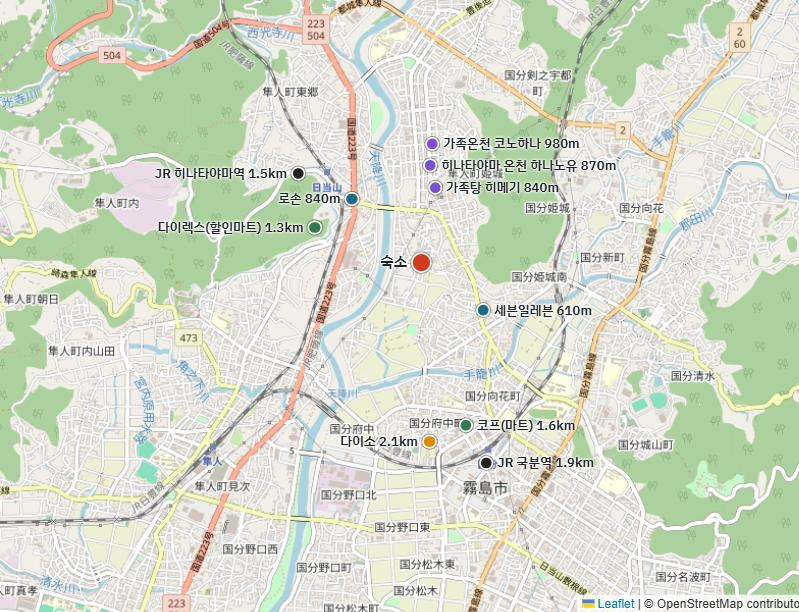
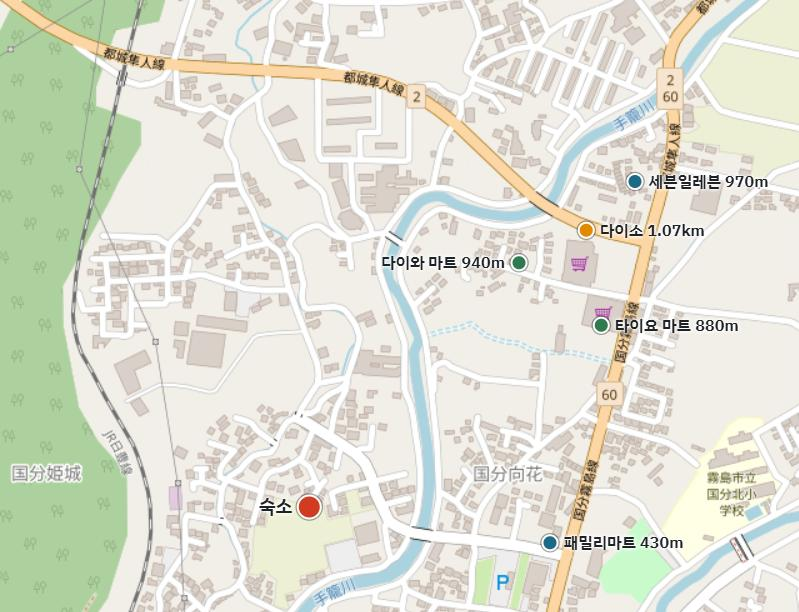
첫날 숙소를 이전 숙소(온천 독채) 기준으로 되돌림 (새 집 버전은 sachikaze 브랜치에 보관)

diff --git a/index.html b/index.html
@@ -155,7 +155,7 @@ ul.poi a{font-weight:600;text-decoration:none;color:var(--ink);min-width:0}
 ul.poi .d{font-size:13px;color:var(--muted);text-align:right}
 ul.poi .w{grid-column:3 / 5;font-size:12.5px;color:var(--muted)}
 ul.poi .w:empty{display:none}
-.k-home i{background:#d13b1f}.k-mart i{background:#2f7a4f}.k-daiso i{background:#e08a00}.k-conv i{background:#1b6a86}.k-station i{background:var(--ink)}.k-bus i{background:#7a4fd1}.k-bath i{background:#7a4fd1}
+.k-home i{background:#d13b1f}.k-mart i{background:#2f7a4f}.k-daiso i{background:#e08a00}.k-conv i{background:#1b6a86}.k-station i{background:var(--ink)}.k-bus i{background:#7a4fd1}
 .k-home a{color:var(--lava)}
 .meal{display:grid;gap:6px}
 dl.menu{display:grid;grid-template-columns:auto 1fr;gap:2px 8px;margin:4px 0 0;font-size:13px}
@@ -224,22 +224,53 @@ footer{padding-top:40px;font-size:13px;color:var(--muted);display:grid;gap:6px}
       <li><span class="t">12:00</span><div class="d">인천공항 제2터미널 도착<p>14:40 출발 기준 2시간 40분 전. 8명 체크인·짐 부치기·보안검색에 토요일 혼잡까지 감안. 점심은 공항에서 먹고, 기내용 간식·물티슈 챙기기.</p></div></li>
       <li><span class="t">16:20</span><div class="d">가고시마 공항 도착 → 입국심사·짐 찾기<p>Visit Japan Web QR 미리 등록해두면 빨라집니다.</p></div></li>
       <li><span class="t">17:00</span><div class="d">렌터카 영업소 셔틀 → 차량 수령<p>8명 + 캐리어는 8인승 한 대에 다 안 실릴 수 있습니다(아래 주의사항). 주니어시트 장착 확인, ETC 카드 대여 여부 결정.</p></div></li>
-      <li><span class="t">17:45</span><div class="d">고쿠부로 이동 (공항에서 차로 약 25분) → 체크인·짐 풀기<p>체크인 15:00~21:00. 도착 예정 시간을 숙소에 미리 알려 두세요. 숙소 안 전용 주차장에 주차.</p></div></li>
+      <li><span class="t">17:45</span><div class="d">고쿠부로 이동 (공항에서 차로 약 15분) → 체크인·짐 풀기<p>체크인 15:00부터, 비대면 체크인. 입실 방법은 호스트가 이메일로 보내주니 출발 전 확인하세요.</p></div></li>
       <li><span class="t">18:30</span><div class="d">저녁</div></li>
-      <li><span class="t">19:45</span><div class="d">아침거리 · 간식 사기<p>가장 가까운 편의점은 세븐일레븐(걸어서 약 8분). 마트·다이소는 1km 밖이라 저녁 먹고 오는 길에 차로 들르세요(다이렉스 할인마트·코프·다이소, 차로 3~5분). 아래 '위치정보' 지도 참고.</p></div></li>
-      <li><span class="t">20:30</span><div class="d">근처 가족탕 (선택) · 휴식<p>숙소에서 걸어서 11~13분 거리에 가족탕이 여러 곳. 대부분 시간제(40~60분)로 빌리고 늦게까지 영업하는 곳이 많지만, 영업시간·요금은 체크인 때 숙소에 확인. 정숙 시간(20:00~) 때문에 숙소에선 조용히.</p></div></li>
+      <li><span class="t">19:45</span><div class="d">아침거리 · 간식 사기<p>패밀리마트는 걸어서 약 6분(430m), 타이요 마트·다이소는 걸어서 12~14분. 아이들이 피곤하면 차로 가세요. 아래 '위치정보' 지도 참고.</p></div></li>
+      <li><span class="t">20:30</span><div class="d">숙소 전용 천연온천 · 휴식</div></li>
     </ol>
     <div class="note tip"><b>고쿠부 숙소 (1박)</b>
       <ul class="plain">
-        <li><b>집 구조</b>: 단독주택 통째로 사용, 침실 4개 · 욕실 1개, 약 110㎡. 넓은 거실(대형 TV), 주방(냉장고·전자레인지·전기주전자), 툇마루(엔가와)·정원, 발코니, 와이파이.</li>
-        <li><b>잠자리 (8명 충분)</b>: 양실 더블침대 2 + 양실 더블침대 1 + 다다미방 더블 이불 2세트 + 거실 싱글 이불 2세트. 이불은 예약 인원에 맞춰 깔아 주니 8명으로 예약됐는지 확인.</li>
-        <li><b>주차</b>: 구내 전용 무료 주차(실내 주차장). 몇 대까지인지는 안 나와 있어 차가 2대면 숙소에 확인.</li>
-        <li><b>욕실</b>: 온천이 아니라 일반 욕조(예전엔 온천물이었지만 지금은 수돗물을 데워 씀). 후기에서 욕실이 깨끗하다는 평.</li>
-        <li><b>온천은 근처 가족탕으로</b>: 걸어서 11~13분(840~980m) 거리에 가족탕(가족끼리 빌리는 온천)이 여러 곳 있습니다. 숙소 제휴 온천도 있다니 체크인 때 물어보세요. 남탕·여탕 나눌 필요 없이 아이들과 다 같이 들어갈 수 있어요.</li>
-        <li><b>체크인·아웃</b>: 체크인 15:00~21:00(도착 시간 미리 연락), 체크아웃 10:00까지.</li>
-        <li><b>규칙</b>: 정숙 시간 20:00~07:00(아이들 소리 주의), 금연, 파손 시 최대 1만 5천 엔 청구.</li>
+        <li><b>전용 천연온천</b>: 하루 한 팀만 받는 온천 딸린 독채라, 원천을 그대로 흘려보내는 온천을 우리 가족끼리 씁니다. 남탕·여탕을 나눌 필요 없이 아이들과 다 같이 들어가면 됩니다.</li>
+        <li><b>집 구조</b>: 독채 전체 사용, 침실 2개 · 침대 6개 · 욕실 1개, 약 80㎡. 구조도상 침대는 A방 2·B방 2라 8명이면 이불 추가 여부 확인. 온천은 옆 별채. 주방(냉장고·전기주전자), 발코니, 와이파이, 무료 주차.</li>
+        <li><b>체크인·아웃</b>: 체크인 15:00부터(비대면), 체크아웃 10:00(예약 안내 기준. 사이트에 따라 11:00로도 나오니 확인).</li>
+        <li><b>주변</b>: 편의점·드럭스토어·슈퍼가 걸어갈 거리. 국분역에서 차로 약 10분.</li>
+        <li><b>온천 매너</b>: 들어가기 전 몸 씻기, 수건은 탕에 넣지 않기, 뜨거우면 아이들은 짧게. 물 자주 마시기.</li>
       </ul>
-      <span class="small muted">출처: 예약 사이트 숙소 소개·후기(2026-10-25 확인)</span>
+      <figure class="plan">
+        <div class="scroll">
+        <svg viewBox="0 0 640 330" role="img" aria-label="고쿠부 숙소 구조도. 본채에 샤워룸, 세면·세탁실, 화장실, 현관, A방(침대 2), B방(침대 2), 거실과 주방, 앞쪽 데크. 옆 별채에 탈의실과 온천 욕실">
+          <g class="fl">
+            <text x="10" y="18" class="ttl">본채</text>
+            <rect x="10" y="28" width="480" height="250" class="wall"/>
+            <rect x="10" y="28" width="40" height="70" class="wet"/><text x="30" y="66" class="lb sm">샤워</text>
+            <rect x="50" y="28" width="105" height="70" class="wet"/><text x="102" y="66" class="lb sm">세면·세탁</text>
+            <rect x="155" y="28" width="40" height="70" class="wet"/><text x="175" y="66" class="lb sm">화장실</text>
+            <rect x="10" y="98" width="70" height="80" class="park"/><text x="45" y="142" class="lb">현관</text>
+            <rect x="80" y="98" width="115" height="80" class="room"/><text x="137" y="142" class="lb sm">복도</text>
+            <rect x="195" y="28" width="130" height="150" class="room"/><text x="260" y="168" class="lb">A방</text>
+            <rect x="205" y="40" width="48" height="95" class="bed"/><text x="229" y="92" class="lb sm">침대</text>
+            <rect x="267" y="40" width="48" height="95" class="bed"/><text x="291" y="92" class="lb sm">침대</text>
+            <rect x="325" y="28" width="165" height="150" class="room"/><text x="365" y="70" class="lb">B방</text>
+            <rect x="372" y="80" width="48" height="90" class="bed"/><text x="396" y="129" class="lb sm">침대</text>
+            <rect x="432" y="80" width="48" height="90" class="bed"/><text x="456" y="129" class="lb sm">침대</text>
+            <rect x="10" y="178" width="480" height="100" class="room"/><text x="210" y="232" class="lb">거실</text>
+            <rect x="380" y="190" width="40" height="78" class="nook"/><text x="400" y="233" class="lb sm">아일랜드</text>
+            <rect x="440" y="186" width="44" height="86" class="wet"/><text x="462" y="233" class="lb sm">주방</text>
+            <rect x="60" y="282" width="380" height="40" class="stair"/><text x="250" y="307" class="lb sm">야외 데크</text>
+          </g>
+          <g class="fl" transform="translate(520 0)">
+            <text x="0" y="18" class="ttl">별채 (온천)</text>
+            <rect x="0" y="80" width="110" height="200" class="wall"/>
+            <rect x="0" y="80" width="110" height="80" class="room"/><text x="55" y="124" class="lb">탈의실</text>
+            <rect x="0" y="160" width="110" height="120" class="tatami"/><text x="55" y="210" class="lb">온천 욕실</text>
+            <rect x="15" y="230" width="80" height="38" class="wet"/><text x="55" y="253" class="lb sm">욕조</text>
+          </g>
+        </svg>
+        </div>
+        <figcaption>휴대폰에서는 그림을 옆으로 밀어서 보세요. 받은 구조도 이미지를 보고 간단히 다시 그린 그림이라 실제와 다를 수 있어요. 구조도에 보이는 침대는 4개(A방 2, B방 2)라, 8명이면 이불·소파베드가 몇 개인지 숙소에 꼭 확인하세요. 온천은 본채 옆 별채에 있어 밖으로 나가서 들어갑니다. <a href="https://www.agoda.com/ko-kr/hanaresou-1-h48040943/hotel/kirishima-jp.html" target="_blank" rel="noopener">예약 사이트에서 원본 구조도·사진 보기</a></figcaption>
+      </figure>
+      <span class="small muted">출처: 예약 사이트 숙소 소개·구조도(2026-10-24 확인)</span>
     </div>
   </article>
 
@@ -376,7 +407,7 @@ footer{padding-top:40px;font-size:13px;color:var(--muted);display:grid;gap:6px}
 
 <!-- 위치정보 -->
 <section id="where">
-  <div class="sec-head"><h2>위치정보</h2><span class="muted small">숙소에서 걸어서 갈 수 있는 1km 안쪽 위주로 모았고, 1km 밖은 "차로"라고 따로 적었습니다. 거리는 직선이 아니라 <b>실제로 걷는 길</b> 기준이고, 시간은 1분에 약 75m로 잡았어요(아이 동반·캐리어면 더 걸림). 이름을 누르면 구글 지도로 열립니다. 고쿠부 숙소는 마트·다이소·역이 모두 1km 밖이라 차로 다녀오세요.</span></div>
+  <div class="sec-head"><h2>위치정보</h2><span class="muted small">숙소에서 걸어서 갈 수 있는 1km 안팎만 모았습니다. 거리는 직선이 아니라 <b>실제로 걷는 길</b> 기준이고, 시간은 1분에 약 75m로 잡았어요(아이 동반·캐리어면 더 걸림). 이름을 누르면 구글 지도로 열립니다. 고쿠부 숙소에서 가장 가까운 역(JR 국분역)은 2.1km라 걸어가기엔 멀어 뺐습니다.</span></div>
   <div class="where" id="whereList"></div>
   <p class="small muted">지도·가게 위치: © OpenStreetMap contributors (2026-10-23 조회). 영업시간·폐업 여부는 방문 전 지도 앱에서 확인하세요.</p>
 </section>
@@ -441,7 +472,7 @@ footer{padding-top:40px;font-size:13px;color:var(--muted);display:grid;gap:6px}
       <li><b>8명이 된 뒤 꼭 확인</b>:
         <ul class="plain">
           <li><b>렌터카</b>: 8인승 미니밴은 8명이 다 앉으면 트렁크가 거의 없어 캐리어가 안 들어갈 수 있습니다. 렌터카 회사에 "8명 + 캐리어 ○개"로 차종을 다시 확인하고, 안 되면 10인승(하이에이스 등)이나 차 2대로 바꾸세요. 2대면 운전자 2명, 페리 차량 요금·기름값도 2배.</li>
-          <li><b>숙소 정원</b>: 첫날 숙소는 더블침대 3 + 이불 4세트라 8명 충분(예약 인원대로 이불을 깔아 줌). 차가 2대면 주차 가능 대수 확인. 중앙역 숙소는 최대 8명이지만 침대 5개라 같이 자는 조합을 미리 정하세요.</li>
+          <li><b>숙소 정원</b>: 첫날 숙소는 사이트엔 침대 6개로 나오지만 구조도엔 침대 4개만 보여요. 8명이 잘 이불·소파베드가 있는지 숙소에 꼭 확인. 중앙역 숙소는 최대 8명이지만 침대 5개라 같이 자는 조합을 미리 정하세요.</li>
           <li><b>예약 인원</b>: 숙소·렌터카 예약 인원을 8명으로 바꿨는지 확인(인원 추가 요금이 붙을 수 있음).</li>
         </ul>
       </li>
@@ -610,9 +641,9 @@ footer{padding-top:40px;font-size:13px;color:var(--muted);display:grid;gap:6px}
   var eat=[
     ['기리시마·고쿠부 (10/31~11/1)',[
       ['저녁',[
-        ['スシロー (스시로)','スシロー 隼人','숙소에서 차로 약 10분(이온 하야토 상권). 터치패널 주문이라 말이 안 통해도 OK. 토요일이라 앱 대기 등록 추천.','아이 OK','연어·참치 초밥, 감자튀김, 푸딩','1인 1,000~2,000엔',false],
+        ['スシロー (스시로)','スシロー 隼人','숙소에서 차로 10분 안팎(이온 하야토 상권). 터치패널 주문이라 말이 안 통해도 OK. 토요일이라 앱 대기 등록 추천.','아이 OK','연어·참치 초밥, 감자튀김, 푸딩','1인 1,000~2,000엔',false],
         ['くら寿司 (쿠라스시)','くら寿司 国分隼人','스시로 바로 옆. 접시 5개 넣으면 뽑기(비쿠라퐁).','아이 OK','초밥 + 뽑기용 접시 모으기, 우동','1인 1,000~2,000엔',false],
-        ['ジョイフル (조이풀)','ジョイフル 国分','숙소에서 차로 약 5분. 규슈 패밀리레스토랑 체인. 드링크바, 늦게까지 영업.','늦게까지 영업','함박스테이크, 키즈 플레이트','1인 700~1,500엔',false],
+        ['ジョイフル (조이풀)','ジョイフル 国分','규슈 패밀리레스토랑 체인. 드링크바, 늦게까지 영업.','늦게까지 영업','함박스테이크, 키즈 플레이트','1인 700~1,500엔',false],
         ['すまいる (스마일)','霧島市 すまいる 和食','공항에서 차로 약 10분. 좌식·의자석 70석 규모.','흑돼지','흑돼지 철판구이 정식(黒豚焼肉膳)','1인 1,500~2,500엔',false]
       ]],
       ['점심',[
@@ -685,20 +716,15 @@ footer{padding-top:40px;font-size:13px;color:var(--muted);display:grid;gap:6px}
   })();
 
   // 위치정보: [숙소명, 기간, 지도 이미지, [[종류, 이름, 거리(m), 위도, 경도, 메모]...]]
-  var KIND={home:'숙소',mart:'마트',daiso:'생활용품',conv:'편의점',station:'역',bus:'버스',bath:'온천'};
+  var KIND={home:'숙소',mart:'마트',daiso:'생활용품',conv:'편의점',station:'역',bus:'버스'};
   var where=[
     ['고쿠부 숙소','10/31 1박','img/map-kokubu.jpg',[
-      ['home','숙소',0,31.7569643,130.7604116,'단독주택, 전용 무료 주차'],
-      ['conv','세븐일레븐',610,31.753697,130.763184,''],
-      ['conv','로손',840,31.761094,130.755976,''],
-      ['bath','가족탕 히메기 (家族湯ひめぎ)',840,31.762913,130.759228,'가족끼리 빌리는 온천'],
-      ['bath','히나타야마 온천 하나노유 (花の湯)',870,31.763658,130.758774,''],
-      ['bath','가족온천 코노하나 (木の花)',980,31.764162,130.75895,''],
-      ['mart','다이렉스 (할인마트)',1280,31.761238,130.751494,'1km 밖 · 차로 약 3분 · 식품·과자·생활용품'],
-      ['station','JR 히나타야마역',1530,31.76349,130.749903,'1km 밖'],
-      ['mart','코프 (마트)',1620,31.7454813,130.7617374,'1km 밖 · 차로 약 4분'],
-      ['station','JR 국분역',1910,31.743675,130.763441,'1km 밖'],
-      ['daiso','다이소',2070,31.744757,130.760818,'1km 밖 · 차로 약 5분']
+      ['home','숙소',0,31.760496,130.773605,'전용 천연온천 독채'],
+      ['conv','패밀리마트',430,31.7601226,130.7771465,''],
+      ['mart','타이요 (슈퍼)',880,31.763334,130.7780255,'아침거리·과일·음료. 강 건너 다리를 지나야 해서 직선보다 멂'],
+      ['mart','다이와 (슈퍼)',940,31.7640556,130.7776196,''],
+      ['conv','세븐일레븐',970,31.7647314,130.778608,''],
+      ['daiso','다이소',1070,31.7643151,130.7777658,'1km 조금 넘음. 타이요 근처']
     ]],
     ['중앙역 숙소','11/1~11/4 3박','img/map-chuo.jpg',[
       ['home','숙소',0,31.581148,130.540726,'역 서쪽 출구에서 걸어서 3~4분'],
@@ -715,7 +741,7 @@ footer{padding-top:40px;font-size:13px;color:var(--muted);display:grid;gap:6px}
   ];
   function gm(la,lo){return 'https://www.google.com/maps/search/?api=1&query='+la+','+lo}
   function dist(m){return m===0?'':m>=1000?(m/1000).toFixed(1)+'km':m+'m'}
-  function walk(m){return m===0||m>1000?'':'걸어서 약 '+Math.max(1,Math.round(m/75))+'분'}
+  function walk(m){return m===0?'':'걸어서 약 '+Math.max(1,Math.round(m/75))+'분'}
   document.getElementById('whereList').innerHTML=where.map(function(w){
     return '<div class="where-block"><h3>'+w[0]+' <span class="muted small">'+w[1]+'</span></h3>'+
       '<figure class="mapshot"><a href="'+w[2]+'" target="_blank" rel="noopener"><img src="'+w[2]+'" alt="'+w[0]+' 주변 지도: 숙소, 마트, 다이소, 편의점, 역 위치" loading="lazy"></a><figcaption>지도를 누르면 크게 볼 수 있어요 · © OpenStreetMap contributors</figcaption></figure>'+
